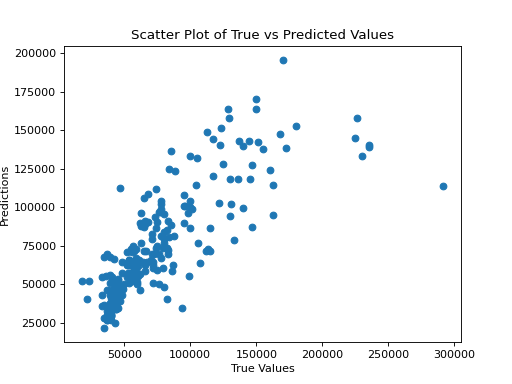
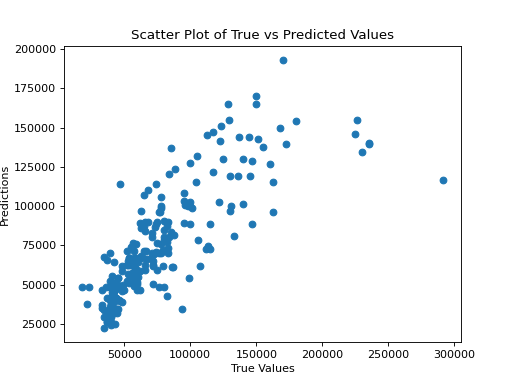
Novo modelo regressão linear

diff --git a/src/models/train_model.py b/src/models/train_model.py
@@ -10,6 +10,11 @@ from sklearn.linear_model import Ridge
 import joblib
 import matplotlib.pyplot as plt
 
+from dvclive import Live
+
+from sklearn.linear_model import LinearRegression
+
+
 @click.command()
 @click.argument('input_filepath', type=click.Path(exists=True))
 @click.argument('output_filepath', type=click.Path())
@@ -17,49 +22,56 @@ def main(input_filepath, output_filepath):
     """ Runs data processing scripts to turn raw data from (../raw) into
         cleaned data ready to be analyzed (saved in ../processed).
     """
-    logger = logging.getLogger(__name__)
-    logger.info('Iniciando treinamento de modelo.')
 
-    df_transformed = pd.read_csv(input_filepath)
+    with Live() as live:
+        logger = logging.getLogger(__name__)
+        logger.info('Iniciando treinamento de modelo.')
 
-    features = list(df_transformed.columns)
-    features.remove("price")
+        df_transformed = pd.read_csv(input_filepath)
 
-    X = df_transformed[features]
-    y = df_transformed["price"]
+        features = list(df_transformed.columns)
+        features.remove("price")
 
-    logger.info('Número de atributos: ' + str(len(features)))
-    logger.info('Atributos utilizados: ' + str(features))
+        X = df_transformed[features]
+        y = df_transformed["price"]
 
-    logger.info('Divisão de dados de treinamento e teste.')
+        logger.info('Número de atributos: ' + str(len(features)))
+        logger.info('Atributos utilizados: ' + str(features))
 
-    X_train, X_test, y_train, y_test = train_test_split(X.values, y.values, test_size=0.3, random_state=42)
+        logger.info('Divisão de dados de treinamento e teste.')
 
-    model = Ridge()
+        X_train, X_test, y_train, y_test = train_test_split(X.values, y.values, test_size=0.3, random_state=42)
 
-    logger.info('Treinamento do modelo (Ridge)')
+        model = LinearRegression()
 
-    model.fit(X_train, y_train)
+        logger.info('Treinamento do modelo (Ridge)')
 
-    predictions = model.predict(X_test)
+        model.fit(X_train, y_train)
 
-    mse = mean_squared_error(y_test, predictions)
-    mae = mean_absolute_error(y_test, predictions)
-    r2 = r2_score(y_test, predictions)
+        predictions = model.predict(X_test)
 
-    logger.info('Mean Squared Error: ' + str(mse))
-    logger.info('Mean Absolute Error: ' + str(mae))
-    logger.info('R2: ' + str(r2))
+        mse = mean_squared_error(y_test, predictions)
+        mae = mean_absolute_error(y_test, predictions)
+        r2 = r2_score(y_test, predictions)
 
+        logger.info('Mean Squared Error: ' + str(mse))
+        logger.info('Mean Absolute Error: ' + str(mae))
+        logger.info('R2: ' + str(r2))
 
-    logger.info('Saving figure of results.')
-    plt.scatter(y_test, predictions)
-    plt.xlabel('True Values')
-    plt.ylabel('Predictions')
-    plt.title('Scatter Plot of True vs Predicted Values')
-    plt.savefig("./reports/figures/true_vs_predicted.png",dpi=80)
+        live.log_metric("mse", mse, timestamp=True, plot=True)
+        live.log_metric("mae", mae, timestamp=True, plot=True)
+        live.log_metric("r2", r2, timestamp=True, plot=True)
 
-    joblib.dump(model, output_filepath)
+        logger.info('Saving figure of results.')
+        plt.scatter(y_test, predictions)
+        plt.xlabel('True Values')
+        plt.ylabel('Predictions')
+        plt.title('Scatter Plot of True vs Predicted Values')
+        plt.savefig("./reports/figures/true_vs_predicted.png",dpi=80)
+
+        joblib.dump(model, output_filepath)
+
+        live.log_artifact(output_filepath, type="model", name="laptop-pricing", desc="Modelo para predição de preço de laptop.", labels=["regressão"])
 
 
 if __name__ == '__main__':
